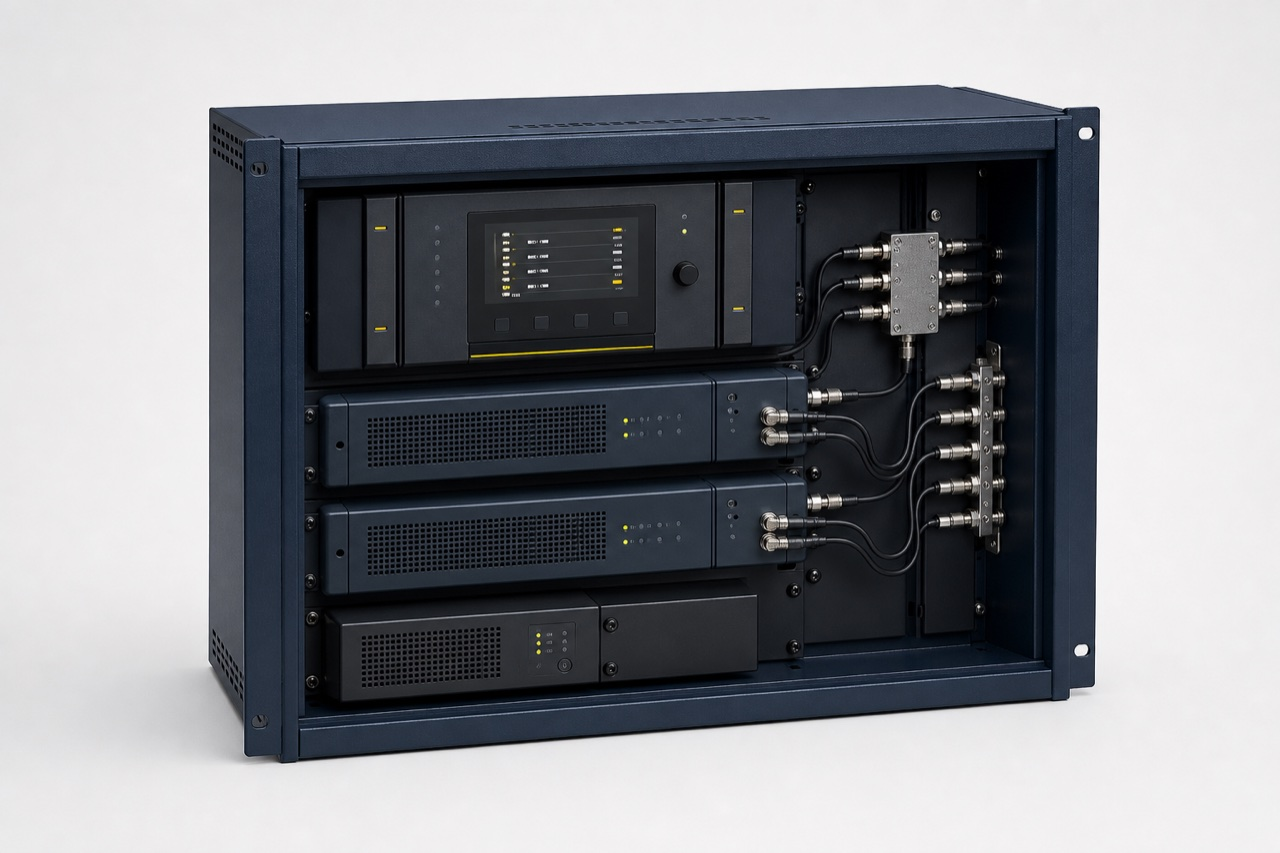
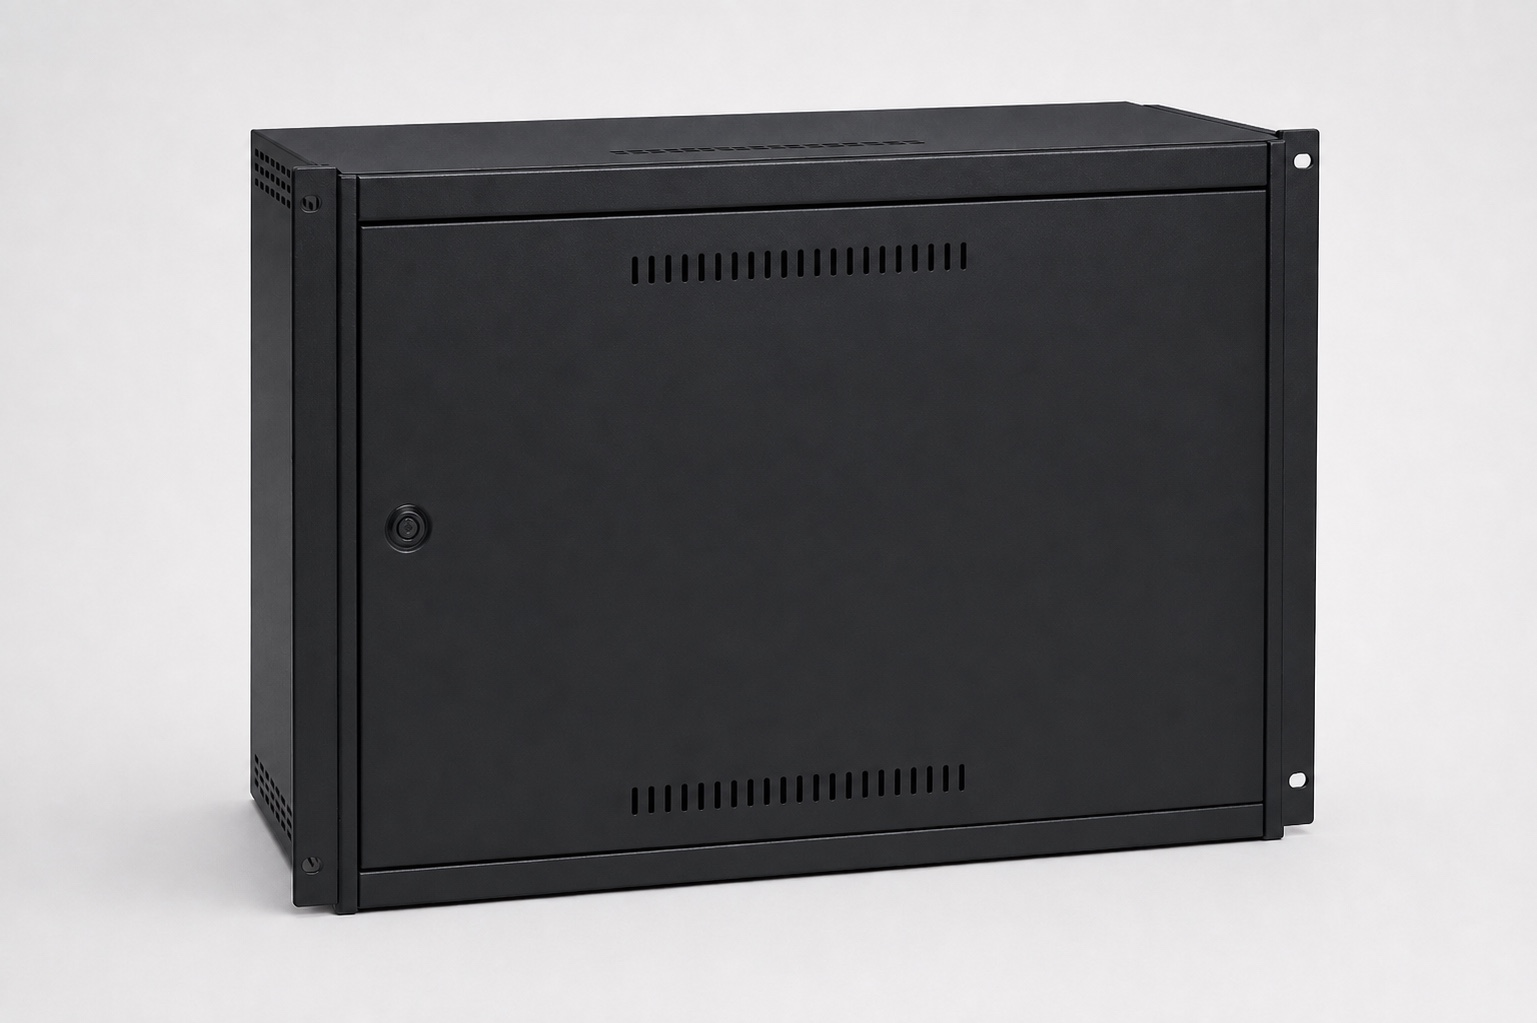
Update alarm rack image and central equipment price

Changed region(s): [[0.1562, 0.0914, 0.875, 0.8535], [0.1562, 0.762, 0.1875, 0.7925]]

diff --git a/app/alarmering/pricing.ts b/app/alarmering/pricing.ts
@@ -7,7 +7,7 @@ export const ALARM_PRICES = {
   devicePurchase: 300,
   pagerWithCharger: 200,
   simpleBaseStation: 2500,
-  extendedCentralEquipment: 4000,
+  extendedCentralEquipment: 3000,
   extendedTransmitter: 3500,
 } as const;
 

diff --git a/app/alarmering/IMAGE_SOURCES.md b/app/alarmering/IMAGE_SOURCES.md
@@ -11,7 +11,7 @@
 - Bestand: `public/alarmering/centrale-apparatuur.jpg`
 - Gemaakt met de ingebouwde OpenAI-beeldgenerator.
 - Gebruik: merkneutraal conceptvoorstel; het beeld vertegenwoordigt geen definitief productmodel.
-- Prompt: realistische B2B-productrender van een compacte donkerblauwe 19-inch besturingskast met centrale controller, twee modulaire RF-zenders, UPS/noodstroom, antenneverdeling en nette patchkabels op een lichte studiobackground; zonder mensen, logo's, merknamen, leesbare tekst of watermerk.
+- Prompt: realistische B2B-productfoto van een compacte, volledig gesloten zwarte 19-inch rackkast met een dichte metalen voordeur, subtiele ventilatiesleuven en een slot op een lichte studiobackground; interne apparatuur en bekabeling niet zichtbaar; zonder mensen, logo's, merknamen, leesbare tekst of watermerk.
 
 ## Smartphone
 